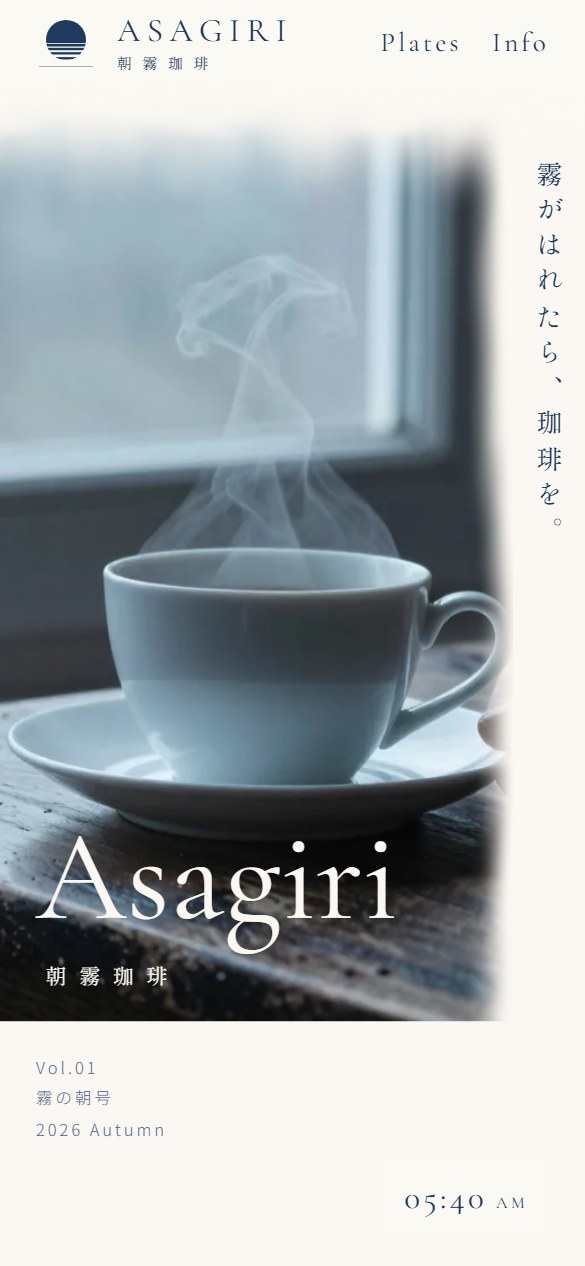
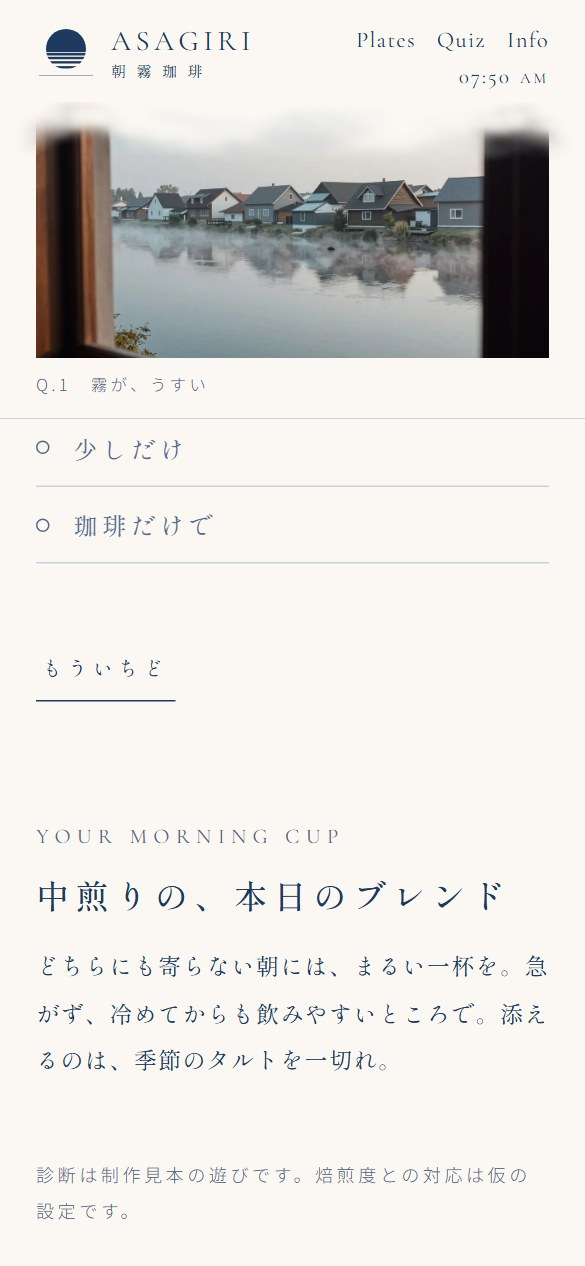
トップの朝霧珈琲カード: 診断「今朝の一杯」の画面に差し替え／説明に診断を追記（表紙の画像は work-asagiri-cover*.jpg に保存）

diff --git a/index.html b/index.html
@@ -155,17 +155,17 @@
 
         <article class="work">
           <div class="work__shots">
-            <img src="img/work-asagiri.jpg" alt="朝霧珈琲 PC表示" class="work__pc" loading="lazy">
-            <img src="img/work-asagiri-sp.jpg" alt="朝霧珈琲 スマホ表示" class="work__sp" loading="lazy">
+            <img src="img/work-asagiri.jpg" alt="朝霧珈琲 PC表示（診断「今朝の一杯」）" class="work__pc" loading="lazy">
+            <img src="img/work-asagiri-sp.jpg" alt="朝霧珈琲 スマホ表示（診断「今朝の一杯」）" class="work__sp" loading="lazy">
           </div>
           <div>
             <p class="work__meta">Photo-book Cafe / 1 page</p>
             <h3>写真集のように味わうカフェ 朝霧珈琲</h3>
             <p>「霧の朝だけ扉をあける」という架空の珈琲店を、写真集とファッション誌のように見せるエディトリアルデザインで構成した1ページのサイト。情報を並べるのではなく、写真と余白で世界観を伝えることを目指しました。店名・写真は架空・AI生成です。</p>
             <dl>
-              <dt>ページ</dt><dd>トップ1ページ（はじめに・霧のはなし・メニュー・店舗情報）</dd>
+              <dt>ページ</dt><dd>トップ1ページ（はじめに・霧のはなし・メニュー・診断・店舗情報）</dd>
               <dt>デザイン</dt><dd>大きな写真と英字見出しを重ねる雑誌風の配置 / 紺と生成りの2色 / カードを使わず、1品ごとに配置を変えたメニュー / 紙の切れ目に差し込んだ形のフッター / オリジナルのロゴとファビコン</dd>
-              <dt>動き</dt><dd>霧がはれるように現れる写真 / 縦書きのキャッチを一文字ずつ表示 / スクロールで進む朝の時刻（動きを減らす設定にも対応）</dd>
+              <dt>動き</dt><dd>霧がはれるように現れる写真 / 縦書きのキャッチを一文字ずつ表示 / スクロールで進む朝の時刻 / 答えるたびに写真が切り替わる診断「今朝の一杯」（動きを減らす設定にも対応）</dd>
             </dl>
             <a href="asagiri-cafe/index.html" class="btn" target="_blank" rel="noopener">サイトを見る</a>
           </div>
